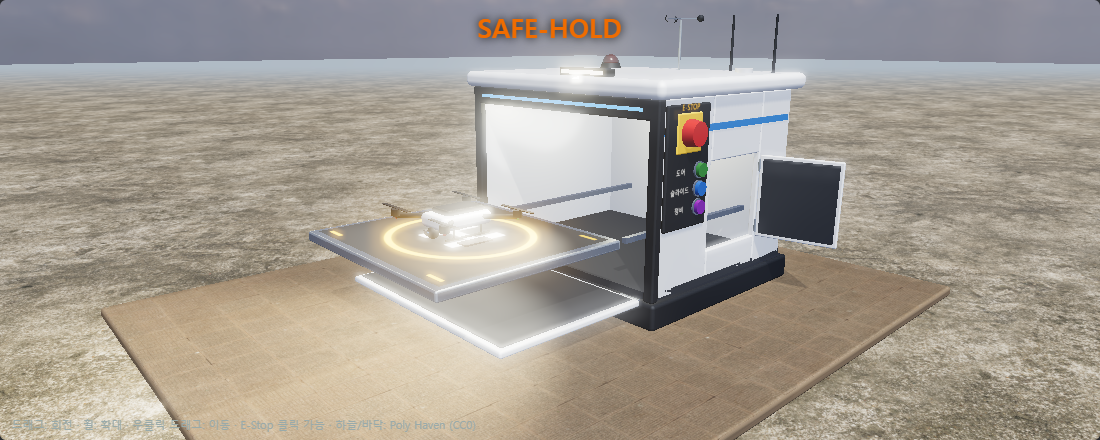
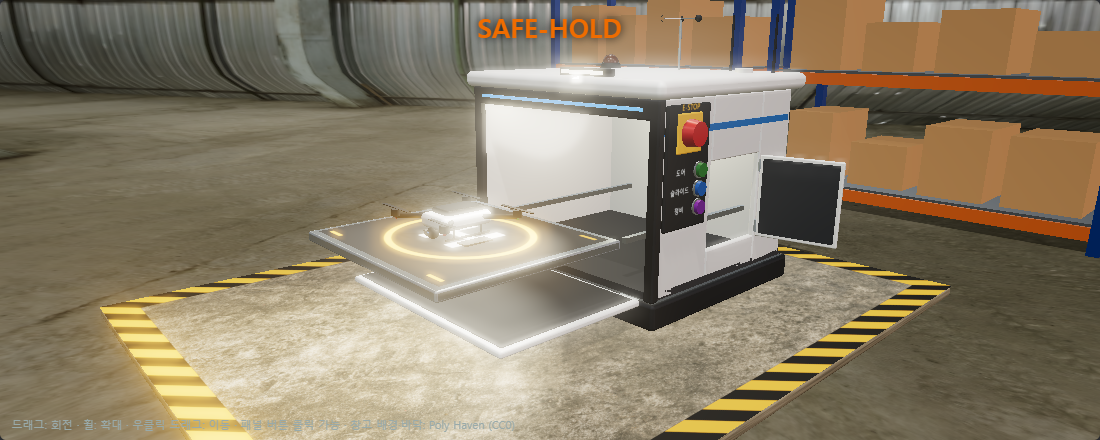
3D 배경을 물류창고 실내로 (창고 HDRI 바닥 투영, 고천장등, 안전 빗금, 팔레트 랙)

diff --git a/sim.html b/sim.html
@@ -692,9 +692,11 @@ const kSideY1 = 0.66;
 const kLedColors = [0x222222, 0x2e7d32, 0xffb300, 0x1e88e5, 0x00acc1, 0xef6c00, 0xd32f2f, 0x8e24aa, 0x43a047, 0xeeeeee];
 const kLedBlinkSec = [0, 0, 0.6, 0, 1.0, 0.5, 0.25, 0, 0, 0.3];
 const kLedBreathe = 8;
-const kHdri = "https://dl.polyhaven.org/file/ph-assets/HDRIs/hdr/1k/kloofendal_48d_partly_cloudy_puresky_1k.hdr";
+const kHdri = "https://dl.polyhaven.org/file/ph-assets/HDRIs/hdr/2k/empty_warehouse_01_2k.hdr";
+const kSkyHeight = 2.4;
+const kSkyRadius = 40;
 const kTex = "https://dl.polyhaven.org/file/ph-assets/Textures/jpg/1k/";
-const kHint = "드래그: 회전 · 휠: 확대 · 우클릭 드래그: 이동 · E-Stop 클릭 가능 · 하늘/바닥: Poly Haven (CC0)";
+const kHint = "드래그: 회전 · 휠: 확대 · 우클릭 드래그: 이동 · 패널 버튼 클릭 가능 · 창고 배경·바닥: Poly Haven (CC0)";
 
 const box = document.getElementById("station3d");
 let THREE = null;
@@ -725,6 +727,7 @@ async function init() {
       import("three/addons/postprocessing/RenderPass.js"),
       import("three/addons/postprocessing/UnrealBloomPass.js"),
       import("three/addons/postprocessing/OutputPass.js"),
+      import("three/addons/objects/GroundedSkybox.js"),
     ]);
     build(Object.assign({}, ...mods));
     document.getElementById("s3d_hint").textContent = kHint;
@@ -803,6 +806,64 @@ function label(text, color, x, y, z, width, parent) {
   return plane;
 }
 
+// 노랑·검정 빗금 테두리 (가운데는 비움)
+function hazardTexture() {
+  return canvasTexture(1024, 1300, (g, w, h) => {
+    const band = 56;
+    g.save();
+    g.beginPath();
+    g.rect(0, 0, w, h);
+    g.rect(band, band, w - band * 2, h - band * 2);
+    g.clip("evenodd");
+    g.fillStyle = "#f2b705";
+    g.fillRect(0, 0, w, h);
+    g.fillStyle = "#1a1a1a";
+    for (let i = -h; i < w + h; i += 80) {
+      g.beginPath();
+      g.moveTo(i, 0);
+      g.lineTo(i + 40, 0);
+      g.lineTo(i + 40 - h, h);
+      g.lineTo(i - h, h);
+      g.fill();
+    }
+    g.restore();
+  });
+}
+
+// 팔레트 랙 한 칸 (파란 기둥·주황 빔·상자). 상자 크기는 고정 시드로 매번 같게
+function rack(x, z, parent) {
+  const kLen = 2.6;
+  const kDepth = 1.0;
+  const upright = mat(0x1f4e9c, 0.5, 0.45);
+  const beam = mat(0xf57c00, 0.4, 0.45);
+  const deck = mat(0x6b7078, 0.6, 0.5);
+  const card = mat(0xb98a5a, 0, 0.85);
+  const g = new THREE.Group();
+  g.position.set(x, 0, z);
+  parent.add(g);
+  for (const px of [-kLen / 2, kLen / 2]) {
+    for (const pz of [-kDepth / 2, kDepth / 2]) {
+      cube(0.08, 3.0, 0.08, upright, px, 1.5, pz, g);
+    }
+  }
+  let seed = Math.abs(Math.round(x * 97 + z * 31)) + 7;
+  const rand = () => {
+    seed = (seed * 16807) % 2147483647;
+    return seed / 2147483647;
+  };
+  for (const y of [0.15, 1.15, 2.15]) {
+    for (const pz of [-kDepth / 2, kDepth / 2]) {
+      cube(kLen, 0.1, 0.05, beam, 0, y, pz, g);
+    }
+    cube(kLen - 0.06, 0.02, kDepth, deck, 0, y + 0.06, 0, g);
+    for (let bx = -kLen / 2 + 0.35; bx < kLen / 2 - 0.2; bx += 0.62) {
+      const bw = 0.42 + rand() * 0.15;
+      const bh = 0.3 + rand() * 0.45;
+      cube(bw, bh, 0.6 + rand() * 0.25, card, bx, y + 0.07 + bh / 2, 0, g);
+    }
+  }
+}
+
 function logoTexture() {
   return canvasTexture(1024, 256, (g, w, h) => {
     g.fillStyle = "#1c2430";
@@ -845,17 +906,20 @@ function build(m) {
   renderer.shadowMap.enabled = true;
   renderer.shadowMap.type = THREE.PCFSoftShadowMap;
   renderer.toneMapping = THREE.ACESFilmicToneMapping;
-  renderer.toneMappingExposure = 0.8;
+  renderer.toneMappingExposure = 0.62;
   box.prepend(renderer.domElement);
 
   const scene = new THREE.Scene();
-  scene.background = new THREE.Color(0xaebfd0);
-  scene.fog = new THREE.Fog(0xaebfd0, 14, 45);
+  scene.background = new THREE.Color(0x17191c);
+  // 창고 HDRI: 반사광으로 쓰고, 바닥에 투영한 스카이박스로 배경을 만든다
   new m.RGBELoader().load(kHdri, hdr => {
     hdr.mapping = THREE.EquirectangularReflectionMapping;
     scene.environment = hdr;
-    scene.background = hdr;
-    scene.backgroundIntensity = 0.85;
+    scene.environmentIntensity = 0.8;
+    const sky = new m.GroundedSkybox(hdr, kSkyHeight, kSkyRadius);
+    sky.position.y = kSkyHeight - 0.01;
+    sky.material.color.setScalar(0.65);
+    scene.add(sky);
   });
 
   const camera = new THREE.PerspectiveCamera(36, 2, 0.05, 200);
@@ -873,24 +937,35 @@ function build(m) {
   composer.addPass(bloom);
   composer.addPass(new m.OutputPass());
 
-  scene.add(new THREE.HemisphereLight(0xdfe9ff, 0x3a3a3a, 0.35));
-  const sun = new THREE.DirectionalLight(0xfff4e0, 2.2);
-  sun.position.set(4, 6, 3);
-  sun.castShadow = true;
-  sun.shadow.mapSize.set(2048, 2048);
-  sun.shadow.radius = 4;
-  sun.shadow.bias = -0.0004;
-  Object.assign(sun.shadow.camera, { left: -3.5, right: 3.5, top: 3.5, bottom: -3.5, far: 20 });
-  scene.add(sun);
+  // 천장 고천장등 두 개 (앞쪽 것이 그림자를 드리움)
+  scene.add(new THREE.HemisphereLight(0xcfd8e6, 0x202020, 0.25));
+  for (const [x, z, is_shadow] of [[1.5, 2.2, true], [-2.0, -1.5, false]]) {
+    const bay = new THREE.SpotLight(0xfff1dc, 55, 0, Math.PI / 5, 0.6, 2);
+    bay.position.set(x, 6, z);
+    bay.target.position.set(0, 0, 0.5);
+    bay.castShadow = is_shadow;
+    bay.shadow.mapSize.set(2048, 2048);
+    bay.shadow.radius = 4;
+    bay.shadow.bias = -0.0004;
+    scene.add(bay, bay.target);
+  }
 
   v = { RoundedBoxGeometry: m.RoundedBoxGeometry };
 
-  const ground = new THREE.Mesh(new THREE.PlaneGeometry(120, 120), pbr("concrete_floor_02", 40));
-  ground.rotation.x = -Math.PI / 2;
-  ground.receiveShadow = true;
-  scene.add(ground);
-  const padMatGround = pbr("concrete_tiles", 2);
-  rbox(3.0, 0.06, 3.8, 0.02, padMatGround, 0, 0.03, 0.7, scene);
+  // 바닥: 그림자만 받는 투명판 + 스테이션 자리 콘크리트 슬래브와 안전 빗금 테두리
+  const shadowFloor = new THREE.Mesh(new THREE.PlaneGeometry(30, 30), new THREE.ShadowMaterial({ opacity: 0.5 }));
+  shadowFloor.rotation.x = -Math.PI / 2;
+  shadowFloor.position.y = 0.002;
+  shadowFloor.receiveShadow = true;
+  scene.add(shadowFloor);
+  rbox(3.0, 0.06, 3.8, 0.02, pbr("concrete_floor_02", 2), 0, 0.03, 0.7, scene);
+  const hazard = new THREE.Mesh(new THREE.PlaneGeometry(3.0, 3.8), new THREE.MeshStandardMaterial({ map: hazardTexture(), transparent: true, roughness: 0.8 }));
+  hazard.rotation.x = -Math.PI / 2;
+  hazard.position.set(0, 0.062, 0.7);
+  hazard.receiveShadow = true;
+  scene.add(hazard);
+  rack(-2.4, -3.3, scene);
+  rack(0.6, -3.3, scene);
 
   const white = mat(0xe6eaef, 0.2, 0.42, { envMapIntensity: 0.8 });
   const dark = mat(0x262b33, 0.55, 0.45);
